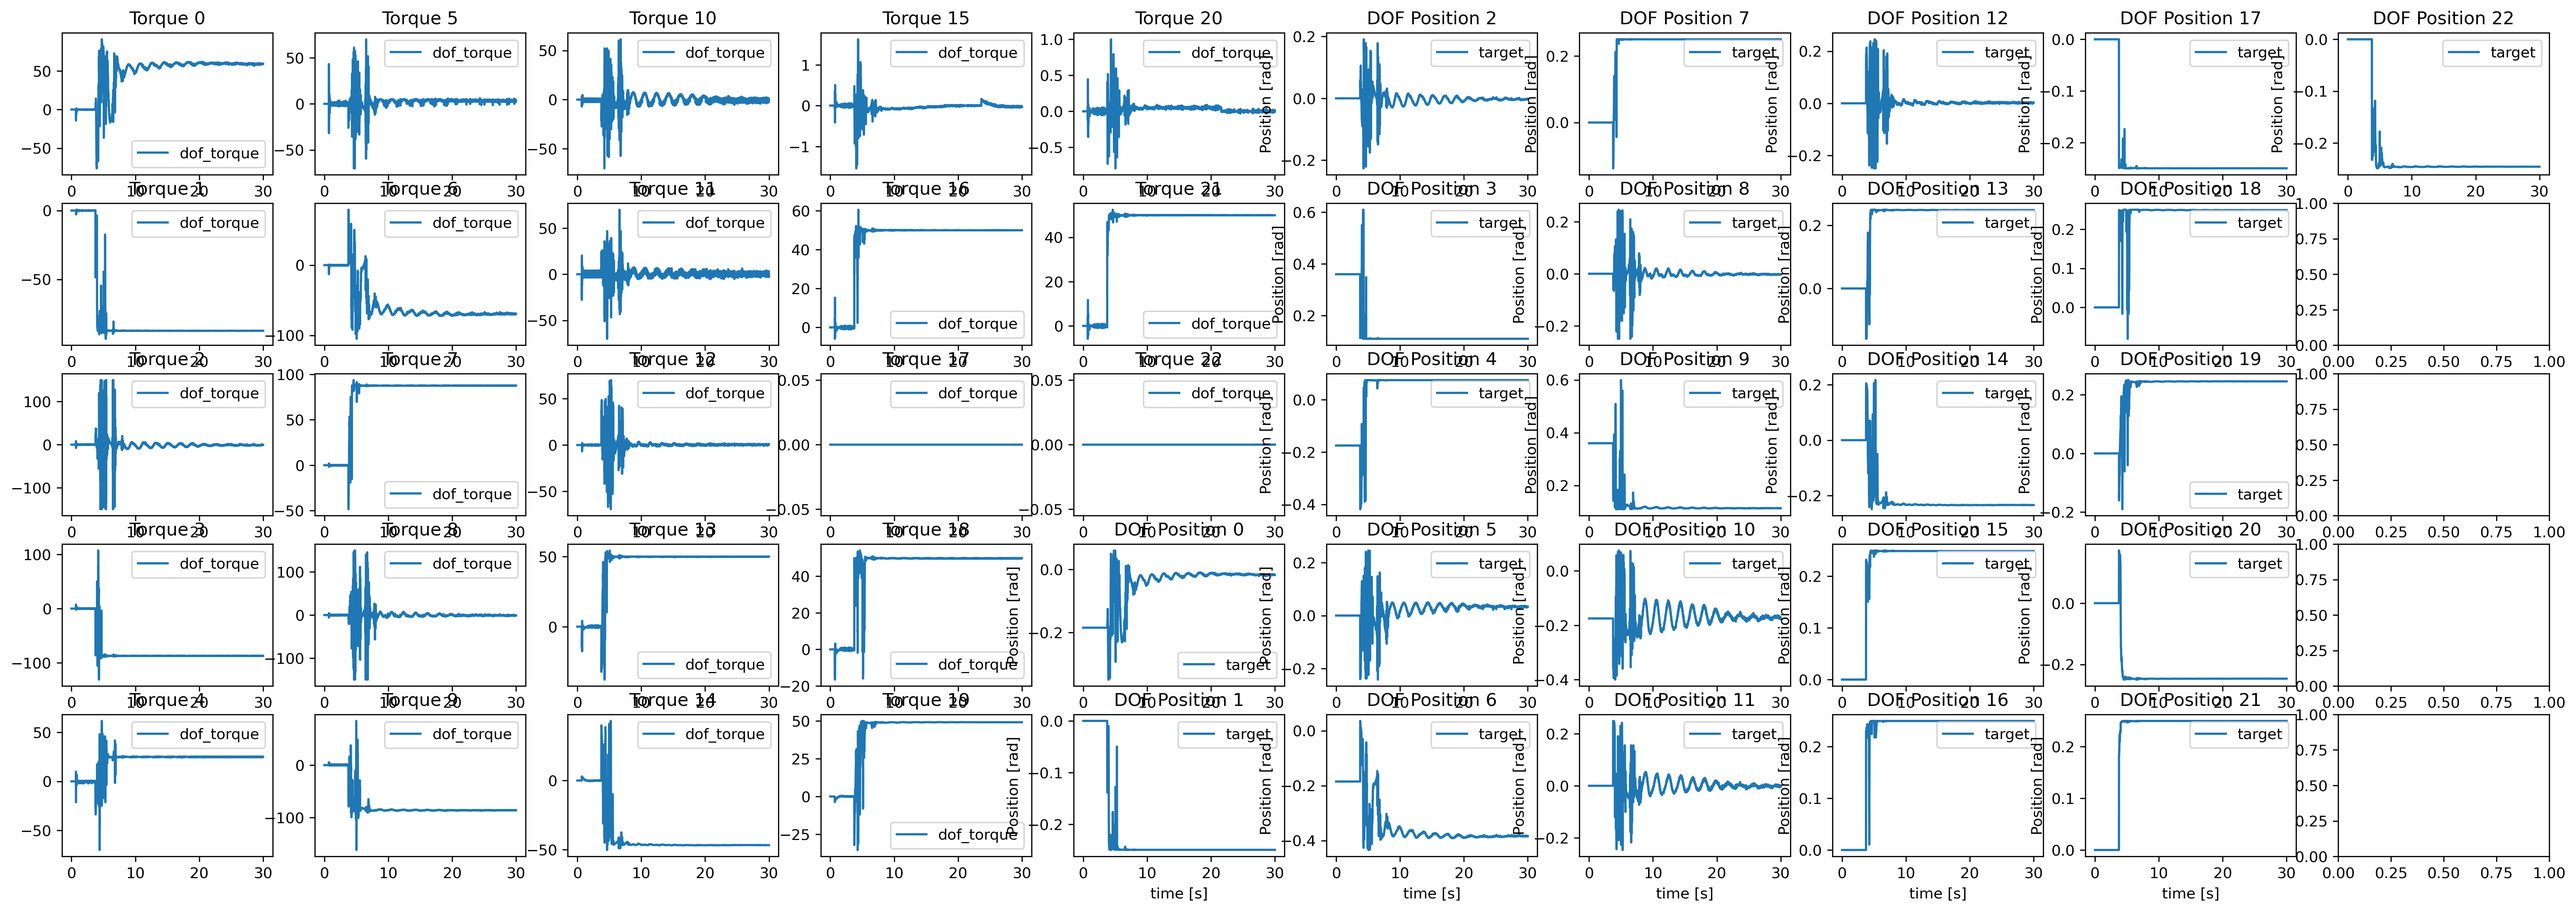
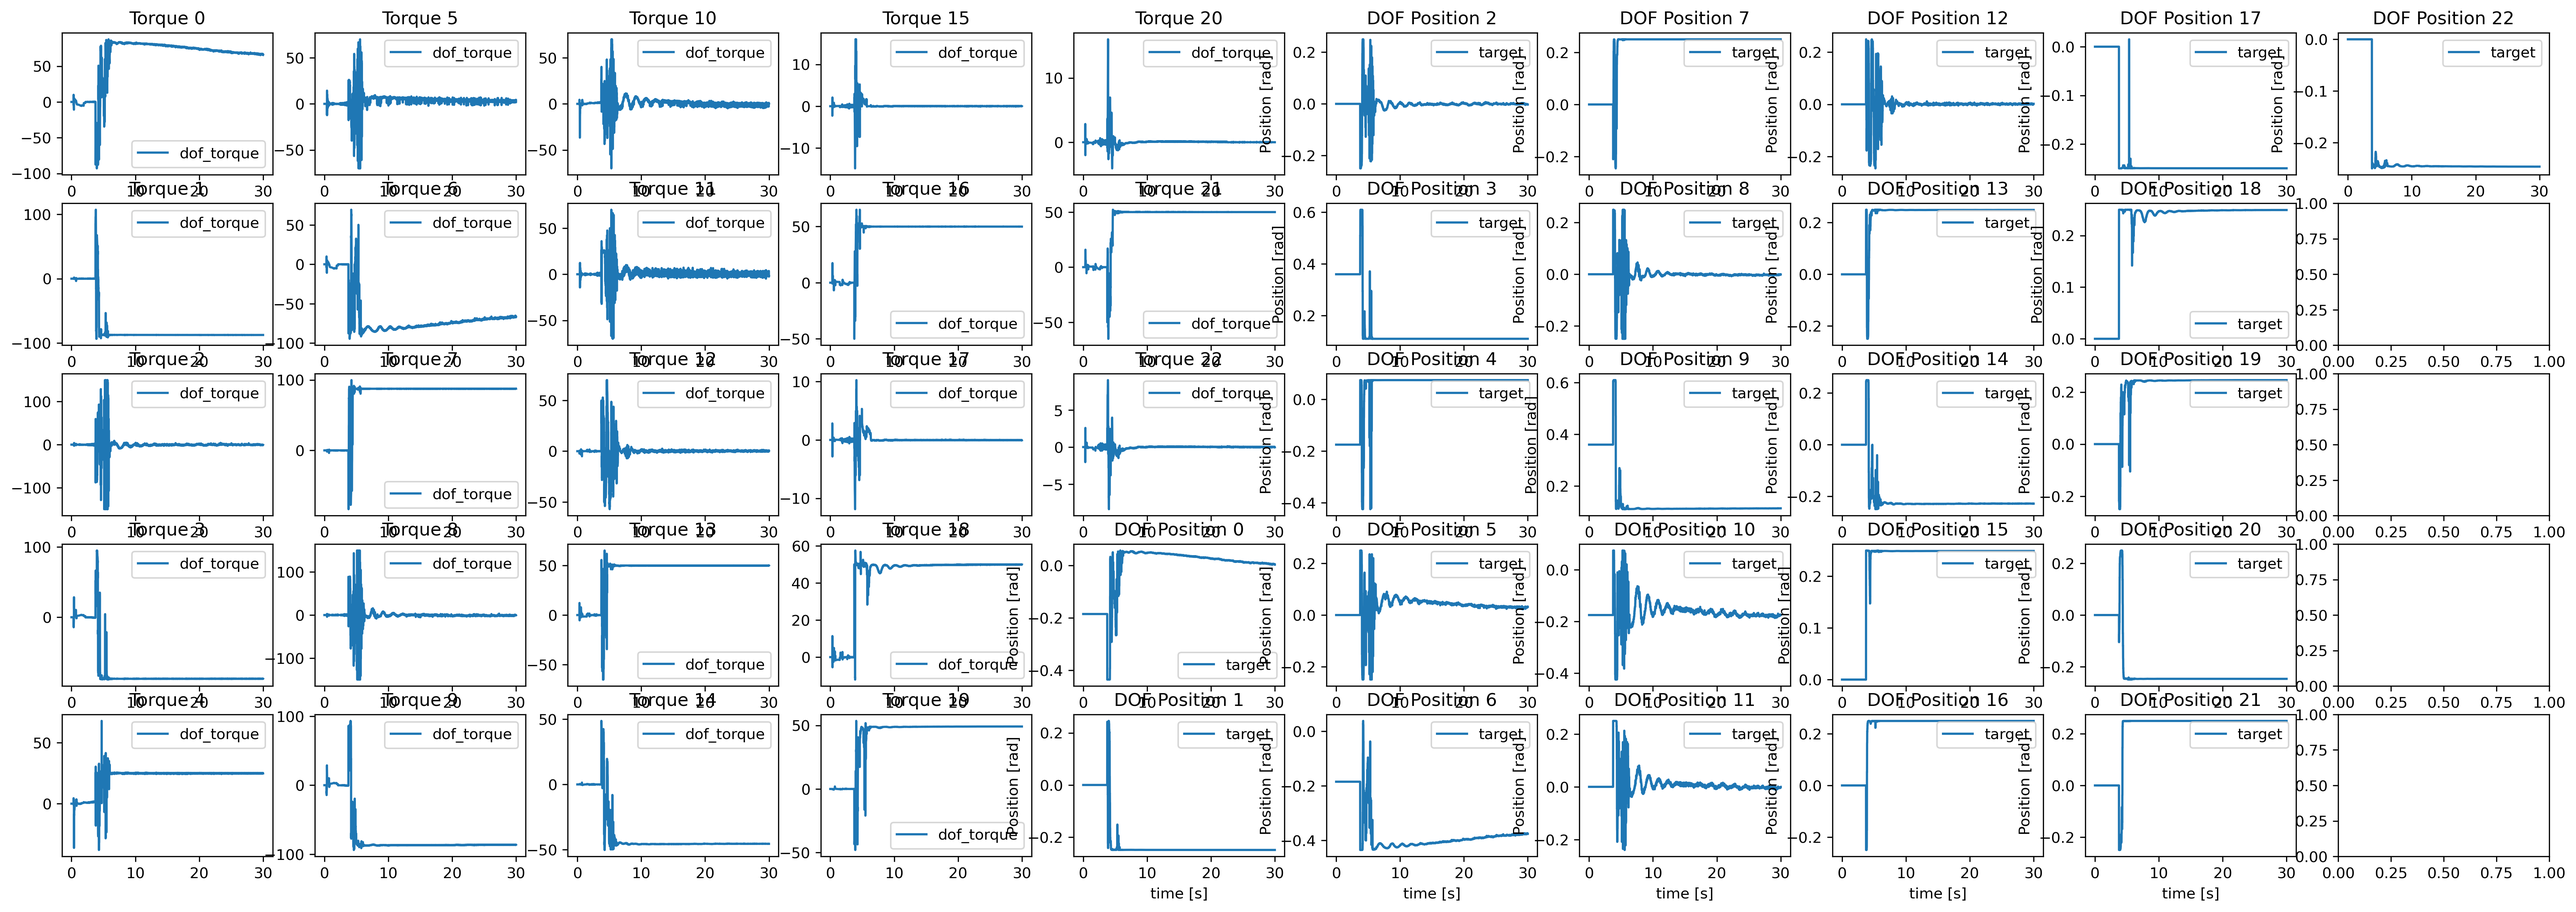
尝试改action

diff --git a/legged_gym/legged_gym/envs/base/host_ground.py b/legged_gym/legged_gym/envs/base/host_ground.py
@@ -64,6 +64,7 @@ class LeggedRobot(BaseTask):
         self.init_done = False
         self._parse_cfg(self.cfg)
         self.num_real_dofs = cfg.env.num_dofs
+        self.actuated_indices = [0,1,2,3,4,5,6,7,8,9,10,11,12,13,14,16,18,19,21]
 
         super().__init__(self.cfg, sim_params, physics_engine, sim_device, headless)
 
@@ -282,12 +283,12 @@ class LeggedRobot(BaseTask):
         """ Computes observations
         """
         current_obs = torch.cat(( 
-                                self.base_ang_vel  * self.obs_scales.ang_vel,
-                                self.projected_gravity,
-                                self.dof_pos * self.obs_scales.dof_pos,
-                                self.dof_vel * self.obs_scales.dof_vel,
-                                self.actions,
-                                self.action_rescale + (torch.rand_like(self.action_rescale) - 0.5) * 0.05,
+                                self.base_ang_vel  * self.obs_scales.ang_vel, # 3
+                                self.projected_gravity, # 3
+                                self.dof_pos[:,self.actuated_indices] * self.obs_scales.dof_pos, # 19
+                                self.dof_vel[:,self.actuated_indices] * self.obs_scales.dof_vel, # 19 
+                                self.actions[:,self.actuated_indices], #19
+                                self.action_rescale + (torch.rand_like(self.action_rescale) - 0.5) * 0.05, # 1
                                 ),dim=-1)
         
         if self.add_noise:
@@ -434,13 +435,14 @@ class LeggedRobot(BaseTask):
         """
         #pd controller
         actions_scaled = actions * self.action_rescale
-    
-        self.joint_pos_target = self.dof_pos + actions_scaled
+        self.joint_pos_target = torch.zeros_like(self.dof_pos)  # shape: [num_envs, 23]
+        #self.joint_pos_target = self.dof_pos + actions_scaled
+        self.joint_pos_target[:, self.actuated_indices] = self.dof_pos[:, self.actuated_indices] + actions_scaled
         if self.cfg.domain_rand.delay:
             self.delay_buffer = torch.concat((self.delay_buffer[1:], actions_scaled.unsqueeze(0)), dim=0)
-            self.joint_pos_target = self.dof_pos + self.delay_buffer[self.delay_idx, torch.arange(len(self.delay_idx)), :]
+            self.joint_pos_target[:, self.actuated_indices] = self.dof_pos[:, self.actuated_indices] + self.delay_buffer[self.delay_idx, torch.arange(len(self.delay_idx)), :]
         else:
-            self.joint_pos_target = self.dof_pos + actions_scaled
+            self.joint_pos_target[:, self.actuated_indices] = self.dof_pos[:, self.actuated_indices] + actions_scaled
 
         control_type = self.cfg.control.control_type
         if control_type=="P":
@@ -729,6 +731,7 @@ class LeggedRobot(BaseTask):
         # save body names from the asset
         body_names = self.gym.get_asset_rigid_body_names(robot_asset)
         self.dof_names = self.gym.get_asset_dof_names(robot_asset)
+        #print(self.dof_names)
         self.num_bodies = len(body_names)
         self.num_dofs = len(self.dof_names)
         feet_names = [s for s in body_names if self.cfg.asset.foot_name in s and 'auxiliary' not in s]
@@ -758,7 +761,7 @@ class LeggedRobot(BaseTask):
             self.payload = torch_rand_float(self.cfg.domain_rand.payload_mass_range[0], self.cfg.domain_rand.payload_mass_range[1], (self.num_envs, 1), device=self.device)
         if self.cfg.domain_rand.randomize_com_displacement:
             self.com_displacement = torch_rand_float(self.cfg.domain_rand.com_displacement_range[0], self.cfg.domain_rand.com_displacement_range[1], (self.num_envs, 3), device=self.device)
-            self.com_displacement[:, 0] = self.com_displacement[:, 0] * 4
+            self.com_displacement[:, 0] = self.com_displacement[:, 0] * 4 - 0.45
             self.com_displacement[:, 1] = self.com_displacement[:, 1] * 4
             self.com_displacement[:, 2] = self.com_displacement[:, 2] * 2
 
@@ -968,7 +971,7 @@ class LeggedRobot(BaseTask):
         self.left_ankle_names = left_ankle_names
         for i, name in enumerate(left_ankle_names):
             self.left_ankle_indices[i] = self.gym.find_actor_rigid_body_handle(self.envs[0], self.actor_handles[0], name)
-        print("left ankle are",self.left_ankle_names)
+        #print("left ankle are",self.left_ankle_names)
 
         right_ankle_names = []
         for target_name in self.cfg.asset.right_ankle_names:
@@ -979,7 +982,7 @@ class LeggedRobot(BaseTask):
         self.right_ankle_names = right_ankle_names
         for i, name in enumerate(right_ankle_names):
             self.right_ankle_indices[i] = self.gym.find_actor_rigid_body_handle(self.envs[0], self.actor_handles[0], name)
-        print("right ankle are",right_ankle_names)
+        #print("right ankle are",right_ankle_names)
 
     def _get_env_origins(self):
         """ Sets environment origins. On rough terrain the origins are defined by the terrain platforms.
@@ -1217,7 +1220,7 @@ class LeggedRobot(BaseTask):
         mse = torch.sum(torch.square(self.dof_pos[:, self.upper_body_joint_indices] - self.target_dof_pos[:, self.upper_body_joint_indices]), dim=-1)
         standup =self.root_states[:, 2] > self.cfg.rewards.target_base_height_phase3
         reward = torch.exp(mse * self.cfg.rewards.target_dof_pos_sigma) 
-        reward = reward * standup
+        #reward = reward * standup
         return reward
     
     def _reward_target_orientation(self):

diff --git a/legged_gym/legged_gym/envs/CAS02/CAS02_config_ground.py b/legged_gym/legged_gym/envs/CAS02/CAS02_config_ground.py
@@ -16,18 +16,18 @@ class CAS02Cfg( LeggedRobotCfg ):
            'right_leg_pelvic_roll_joint' : 0, 
            'right_leg_pelvic_yaw_joint' : 0,                                       
            'right_leg_knee_pitch_joint' : 0.36,                                             
-           'right_leg_ankle_pitch_joint' : -0.175,   
+           'right_leg_ankle_pitch_joint' : -0.0,   
            'right_leg_ankle_roll_joint' : 0,                                                                       
            'waist_yaw_joint' : 0., 
            'left_shoulder_pitch_joint' : 0.08725, 
            'left_shoulder_roll_joint' : 0., 
            'left_shoulder_yaw_joint' : 0.,
-           'left_elbow_pitch_joint'  : -85.0,
+           'left_elbow_pitch_joint'  : -0.26175,
            'left_wrist_yaw_joint' : 0.,
            'right_shoulder_pitch_joint' : 0.08725,
            'right_shoulder_roll_joint' : 0.,
            'right_shoulder_yaw_joint' : 0.,
-           'right_elbow_pitch_joint' : -85.0,
+           'right_elbow_pitch_joint' : -0.0,
            'right_wrist_yaw_joint' : 0.,
         }
 
@@ -58,9 +58,9 @@ class CAS02Cfg( LeggedRobotCfg ):
         }
 
     class env(LeggedRobotCfg.env):
-        num_one_step_observations= 76
-        num_actions = 23
-        num_dofs = 23
+        num_one_step_observations= 64 # 72
+        num_actions = 19 #23
+        num_dofs = 23 # 23
         num_actor_history = 6
         num_observations = num_actor_history * num_one_step_observations
         episode_length_s = 10 # episode length in seconds
@@ -72,24 +72,18 @@ class CAS02Cfg( LeggedRobotCfg ):
         stiffness = {'pelvic': 350,
                      'knee': 350,
                      'ankle': 100,
-                     #'shoulder': 350,
-                     'elbow': 200,
+                     'shoulder': 200,
+                     'elbow': 350,
                      'waist': 200,
-                     'wrist': 0,
-                     'shoulder_pitch':200,
-                     'shoulder_roll':200,
-                     'shoulder_yaw':0,
+                     'wrist': 200,
                      }  # [N*m/rad]
         damping = {  'pelvic': 4,
                      'knee': 4,
                      'ankle': 2,
-                     #'shoulder': 4,
-                     'shoulder_pitch':4,
-                     'shoulder_roll':4,
-                     'shoulder_yaw':0.5,
+                     'shoulder': 4,
                      'elbow': 4,
                      'waist': 4,
-                     'wrist': 0,
+                     'wrist': 2.0,
                      }  # [N*m/rad]  # [N*m*s/rad]
         # action scale: target angle = actionRescale * action + cur_dof_pos
         action_scale = 1
@@ -149,8 +143,8 @@ class CAS02Cfg( LeggedRobotCfg ):
         left_knee_joints = ['left_leg_knee_pitch_joint']
         right_knee_joints = ['right_leg_knee_pitch_joint']    
 
-        left_arm_joints = ['left_shoulder_pitch_joint', 'left_shoulder_roll_joint', 'left_shoulder_yaw_joint', 'left_elbow_pitch_joint', 'left_wrist_yaw_joint']
-        right_arm_joints = ['right_shoulder_pitch_joint', 'right_shoulder_roll_joint', 'right_shoulder_yaw_joint', 'right_elbow_pitch_joint', 'right_wrist_yaw_joint']
+        left_arm_joints = ['left_shoulder_pitch_joint', 'left_shoulder_roll_joint', 'left_elbow_pitch_joint']
+        right_arm_joints = ['right_shoulder_pitch_joint', 'right_shoulder_roll_joint', 'right_elbow_pitch_joint']
         waist_joints = ["waist_yaw_joint"]
         knee_joints = ['left_leg_knee_pitch_joint', 'right_leg_knee_pitch_joint']
         ankle_joints = [ 'left_leg_ankle_pitch_joint', 'left_leg_ankle_roll_joint', 'right_leg_ankle_pitch_joint', 'right_leg_ankle_roll_joint']
@@ -186,7 +180,7 @@ class CAS02Cfg( LeggedRobotCfg ):
         only_positive_rewards = False # if true negative total rewards are clipped at zero (avoids early termination problems)
         orientation_sigma = 1
         is_gaussian = True
-        target_head_height = 1.4
+        target_head_height = 1.5
         target_head_margin = 1
         target_base_height_phase1 = 0.55
         target_base_height_phase2 = 0.55
@@ -232,7 +226,7 @@ class CAS02Cfg( LeggedRobotCfg ):
 
             # style reward
             style_waist_deviation = -10
-            style_hip_yaw_deviation = -10
+            style_hip_yaw_deviation = -15
             style_hip_roll_deviation = -10
             style_shoulder_roll_deviation = -2.5
             style_left_foot_displacement = 3.0
@@ -247,7 +241,7 @@ class CAS02Cfg( LeggedRobotCfg ):
             target_ang_vel_xy = 13.0
             target_lin_vel_xy = 13.0
             target_feet_height_var = 2.5
-            target_target_upper_dof_pos = 10
+            target_target_upper_dof_pos = 30
             target_target_orientation = 10
             target_target_base_height = 10
 

diff --git a/legged_gym/legged_gym/scripts/mujoco_scripts/sim2sim.py b/legged_gym/legged_gym/scripts/mujoco_scripts/sim2sim.py
@@ -6,7 +6,7 @@
 # 1. Redistributions of source code must retain the above copyright notice, this
 # list of conditions and the following disclaimer.
 #
-# 2. Redistributions in binary form must reproduce the above copyright notice,
+# 3. Redistributions in binary form must reproduce the above copyright notice,
 # this list of conditions and the following disclaimer in the documentation
 # and/or other materials provided with the distribution.
 #
@@ -210,6 +210,8 @@ def run_mujoco(policy, cfg):
     actions_scaled = np.zeros((cfg.env.num_actions), dtype=np.double)
     last_action = np.zeros((cfg.env.num_actions), dtype=np.double)
     action_rescale = cfg.control.action_scale
+    print("比例1", action_rescale)
+    
 
     rpy = np.zeros(3, dtype=np.double) # roll pitch yaw
 
@@ -287,9 +289,9 @@ def run_mujoco(policy, cfg):
                 target_q *= 0
             else:
                 target_q = action * action_rescale
-            
+            print("比例2", action_rescale)
             target_pos = target_q + default_dof_pos
-            print("目标角度",target_pos)
+            # print("目标角度",target_pos)
 
             action_buffer.append(target_pos)
 
@@ -480,16 +482,16 @@ if __name__ == '__main__':
             decimation = 4
 
         class robot_config:
-            kps = np.array([350, 350, 350, 350, 150, 150, \
-                            350, 350, 350, 350, 150, 150,
-                            120,
-                            120, 120, 0, 120, 0,
-                            120, 120, 0, 120, 0], dtype=np.double)
-            kds = np.array([6.0, 6.0, 6.0, 6.0, 2.0, 1.8,  \
-                            6.0, 6.0, 6.0, 6.0, 2.0, 1.8,
+            kps = np.array([350, 350, 350, 350, 100, 100, \
+                            350, 350, 350, 350, 100, 100,
+                            200,
+                            200, 200, 0, 200, 0,
+                            200, 200, 0, 200, 0], dtype=np.double)
+            kds = np.array([4.0, 4.0, 4.0, 4.0, 2.0, 2.0,  \
+                            4.0, 4.0, 4.0, 4.0, 2.0, 2.0,
                             4.0,
-                            4.0, 4.0, 1.0, 4.0, 4.0,
-                            4.0, 4.0, 1.0, 4.0, 4.0], dtype=np.double)
+                            4.0, 4.0, 1.0, 4.0, 1.0,
+                            4.0, 4.0, 1.0, 4.0, 1.0], dtype=np.double)
         
             # tau_limit = np.array([120., 120., 120., 120.,  90.,  64.,   \
             #                       120., 120., 120., 120.,  90.,  64.], dtype=np.double)

diff --git a/legged_gym/legged_gym/scripts/mujoco_scripts/terrain_generator.py b/legged_gym/legged_gym/scripts/mujoco_scripts/terrain_generator.py
@@ -119,7 +119,7 @@ class TerrainGenerator:
                   init_pos=[0.0, 0.0, 0.0],
                   yaw=0.0,
                   width=0.3,
-                  height=0.5,
+                  height=0.4,
                   length=1.2,
                   stair_nums=3):
 

diff --git a/legged_gym/legged_gym/scripts/play.py b/legged_gym/legged_gym/scripts/play.py
@@ -50,6 +50,6 @@ def play(args):
 
 
 if __name__ == '__main__':
-    EXPORT_POLICY = 0
+    EXPORT_POLICY = 1
     args = get_args()
     play(args)
